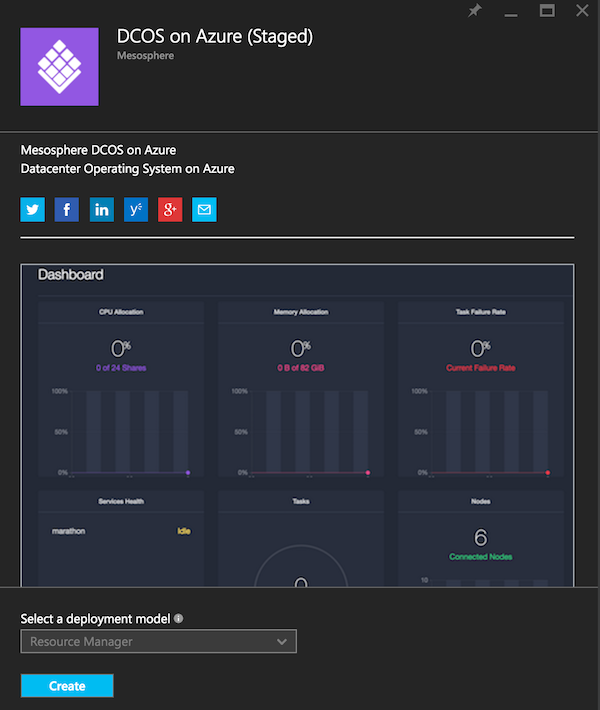
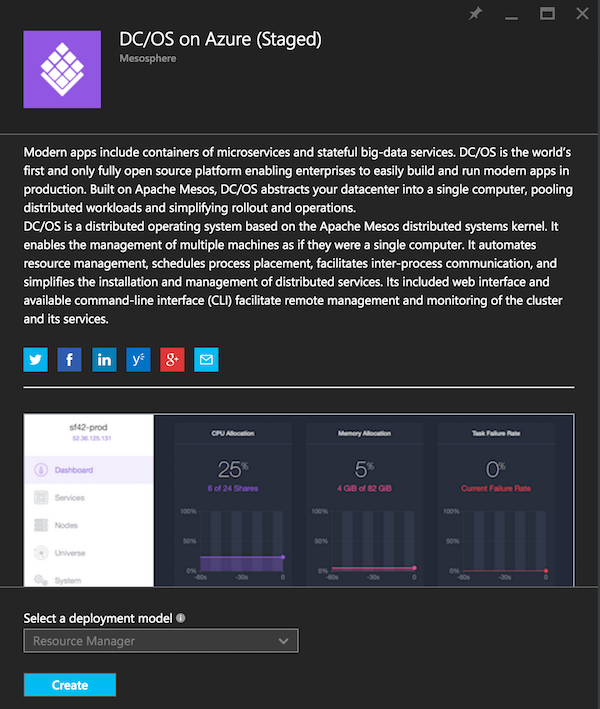
updates Azure cloud deploy

diff --git a/1.7/administration/installing/cloud/azure/index.md b/1.7/administration/installing/cloud/azure/index.md
@@ -27,7 +27,7 @@ Also, in order to access nodes in the DC/OS cluster you will need `ssh` installe
 
 ## Step 1: Deploying the template
 
-In order to deploy DC/OS using an [Azure Resource Manager](https://azure.microsoft.com/en-us/documentation/articles/resource-group-overview/) template, first go to [portal.azure.com](https://portal.azure.com/), click on `+ New` and enter `dcos`:
+In order to deploy DC/OS using an [Azure Resource Manager](https://azure.microsoft.com/en-us/documentation/articles/resource-group-overview/) template, first go to [portal.azure.com](https://portal.azure.com/), click on `+ New` and enter `DC/OS`:
 
 ![Searching for DC/OS template](img/dcos-azure-marketplace-step1a.png)
 
@@ -57,21 +57,21 @@ Now you have deployed DC/OS using an Azure Resource Manager template, congrats! 
 
 Due to security considerations the DC/OS cluster in Azure is locked down per default. You need to use an `ssh` tunnel to access the DC/OS Dashboard.
 
-First, look up `master-lb-hostname` in the outputs of the deployment. To find that, click on the link under `Last deployment` (which is `4/11/2016 (Succeeded)` here) and you should see this:
+First, look up `master-lb-hostname` in the outputs of the deployment. To find that, click on the link under `Last deployment` (which is `4/15/2016 (Succeeded)` here) and you should see this:
 
 ![Deployment history](img/dcos-azure-marketplace-step2a.png)
 
-Click on the latest deployment and copy the value of `master-lb-hostname` in the `Outputs` section:
+Click on the latest deployment and copy the value of `MASTERFQDN` in the `Outputs` section:
 
 ![Deployment output](img/dcos-azure-marketplace-step2b.png)
 
-Use the value of `master-lb-hostname` you found in the `Outputs` section in the previous step and paste it in the following command:
+Use the value of `MASTERFQDN` you found in the `Outputs` section in the previous step and paste it in the following command:
 
-    $ ssh azureuser@master-lb-hostname -p 2200 -L 8000:localhost:80
+    $ ssh azureuser@masterfqdn -p 2200 -L 8000:localhost:80
 
 For example, in my case:
 
-    $ ssh azureuser@test123mlb.westus.cloudapp.azure.com -p 2200 -L 8000:localhost:80
+    $ ssh azure@dcosmaster.westus.cloudapp.azure.com -p 2200 -L 8000:localhost:80
 
 Now you can visit `http://localhost:8000` on your local machine and find the DC/OS Dashboard there.
 
